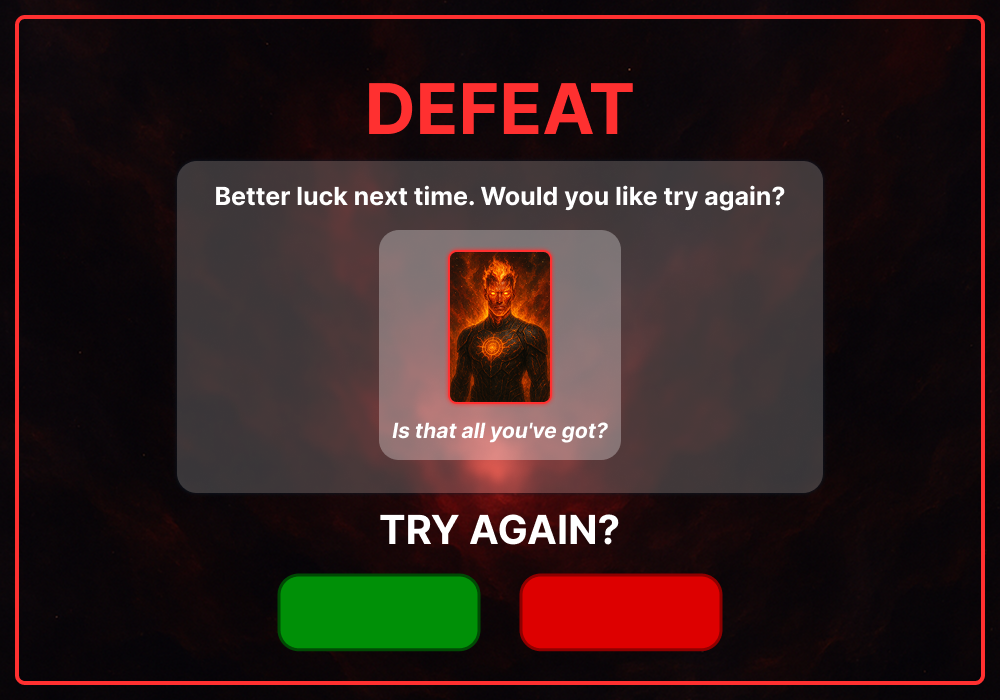
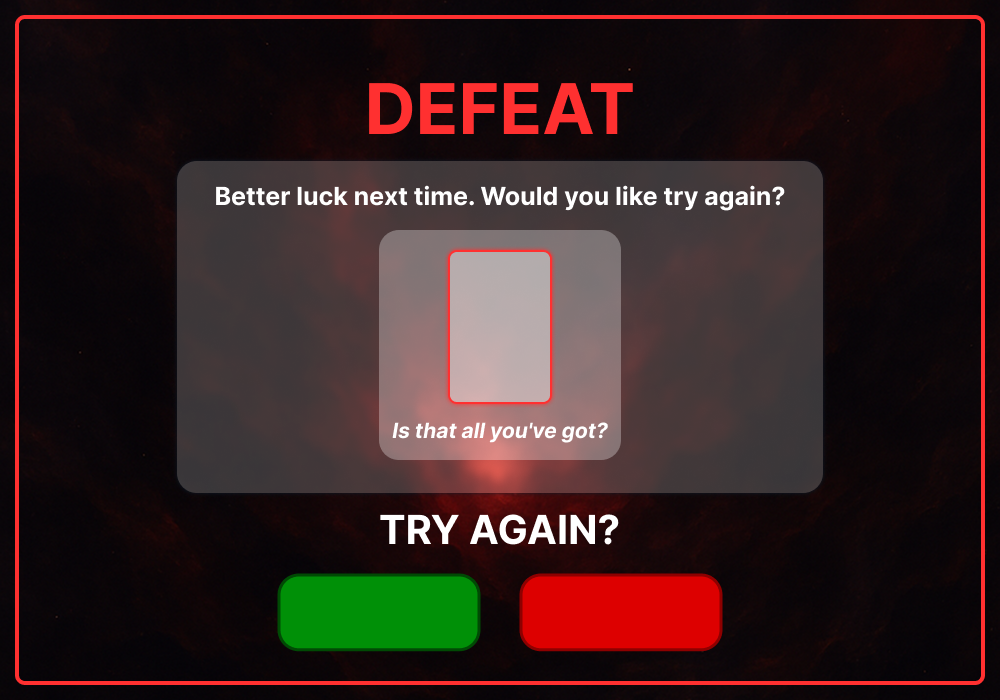
lavoro 27/05/2025

Changed region(s): [[0.434, 0.36, 0.558, 0.6]]

diff --git a/core/src/codes/sorgente/GameMods/GameOver.java b/core/src/codes/sorgente/GameMods/GameOver.java
@@ -398,10 +398,10 @@ public class GameOver implements Screen, InputProcessor, ResourceLoader {
         if (!win) { // sconfitta
             // immagine nemico
             switch ((int) Math.ceil((double) numLevel / 10)) {
-                case 1 -> screen.draw(guardianG1, 430, 170);
-                case 2 -> screen.draw(guardianG2, 775, 185);
-                case 3 -> screen.draw(guardianG3, 800, 455);
-                case 4 -> screen.draw(guardianG4, 300, 430);
+                case 1 -> screen.draw(guardianG1, 450, 298);
+                case 2 -> screen.draw(guardianG2, 450, 298);
+                case 3 -> screen.draw(guardianG3, 450, 298);
+                case 4 -> screen.draw(guardianG4, 450, 298);
             }
         }
         else { // vittoria
@@ -412,7 +412,7 @@ public class GameOver implements Screen, InputProcessor, ResourceLoader {
 
             // stampa immagine premio + testo descrittivo
             screen.draw(listImgReward.get((int) DataUserManager.getProgress("level")-1), 300, 150);
-            font.draw(screen, listTextReward.get((int) DataUserManager.getProgress("level")), 300, 200);
+            font.draw(screen, listTextReward.get((int) DataUserManager.getProgress("level")-1), 300, 200);
         }
     }
 
@@ -449,7 +449,7 @@ public class GameOver implements Screen, InputProcessor, ResourceLoader {
             // livello corrente
             if (!isLevel) game.setScreen(new LobbyManager(game));
             else {
-                saveLevelProgress(); // TODO: rimuoverlo da qua una volta settato il range claim
+                if (win) saveLevelProgress(); // TODO: rimuoverlo da qua una volta settato il range claim
                 game.setScreen(new SpaceJourney(game, selectedSp, (int) Math.ceil((double) numLevel / 10)));
             }
         }
@@ -491,7 +491,6 @@ public class GameOver implements Screen, InputProcessor, ResourceLoader {
     @Override public boolean mouseMoved(int screenX, int screenY) {
         isBtnRHover=isBtnLHover=false;
         // CAMBIO STILE PULSANTI
-        // TODO: cambiare i range x e y
         // YES restart
         if ((screenX >= 272 && screenX <= 472) && (screenY >= 573 && screenY <= 650)) {
             isBtnLHover=true;

diff --git a/core/src/codes/sorgente/GameMods/ClassicGame.java b/core/src/codes/sorgente/GameMods/ClassicGame.java
@@ -65,7 +65,7 @@ public class ClassicGame implements Screen, InputProcessor {
     private float spawnInterval;
 
     // statistiche
-    private int totalLives, lives, aliensHit, spaceshipHit, points, credits;
+    private int totalLives, lives, aliensHit, points, credits;
 
     // valori di incremento punti e crediti
     private int scoreInc, creditsInc;
@@ -125,7 +125,7 @@ public class ClassicGame implements Screen, InputProcessor {
         this.isLevel = isLevel;
 
         numLevel = (int) DataUserManager.getProgress("level");
-
+        System.out.println(numLevel);
         // navicella utente inizializzata
         this.selectedSp = selectedSp;
 
@@ -150,9 +150,15 @@ public class ClassicGame implements Screen, InputProcessor {
         spaceship = new Rectangle(400, 20, 70, 64);
 
         // init parametri in base alla difficoltà di gioco
-        int difficulty;
+        int difficulty=1;
         if (!isLevel) difficulty = (int) DataUserManager.getProgress("diff_classic_game");
-        else difficulty = (int) Math.ceil((double) numLevel / 10);
+        else {
+            switch ((int) Math.ceil((double) numLevel / 10)) {
+                case 1 -> difficulty=1;
+                case 2, 3 -> difficulty=2;
+                case 4 -> difficulty=3;
+            }
+        }
         setupGameParameters(difficulty);
 
         // posizione y dello sfondo dinamico
@@ -255,7 +261,6 @@ public class ClassicGame implements Screen, InputProcessor {
                 creditsInc = 3;
                 break;
         }
-
         spacecraftSpeed += selectedSp.getSpSpeed()*100;
         laserSpeed += selectedSp.getLaserSpeed()*100;
     }

diff --git a/core/src/codes/sorgente/GameMods/SpaceJourney/SpaceJourneyUI.java b/core/src/codes/sorgente/GameMods/SpaceJourney/SpaceJourneyUI.java
@@ -299,7 +299,7 @@ public class SpaceJourneyUI implements ResourceLoader {
         // prezzo livello
         boolean higherPrice = currentCredits>=numLevel* 100L;
         BitmapFont font = higherPrice ? fontBoldGreen25 : fontBoldRed25;
-        font.draw(screen, currentCredits + "/" + formatter.format(numLevel* 100L), 390, 347);
+        font.draw(screen, formatter.format(currentCredits) + "/" + formatter.format(numLevel* 100L), 390, 347);
 
         // stampa pulsanti hover
         int price = 100*numLevel; // prezzo del livello

diff --git a/core/src/codes/sorgente/Lobby/InputManager.java b/core/src/codes/sorgente/Lobby/InputManager.java
@@ -487,9 +487,9 @@ public class InputManager implements InputProcessor {
                     }
                 }
             }
-
+            System.out.println(screenX + " " + screenY);
             // chiusura pagina navicelle
-            if (page==4 && (screenX >= 906 && screenX <= 947) && (screenY >= 83 && screenY <= 122)) {
+            if (page==4 && (screenX >= 907 && screenX <= 947) && (screenY >= 68 && screenY <= 106)) {
                 open4 = false;
                 page = previousPage;
             }

diff --git a/core/src/codes/sorgente/GameMods/SpaceJourney/Level.java b/core/src/codes/sorgente/GameMods/SpaceJourney/Level.java
@@ -49,6 +49,7 @@ public class Level {
         System.out.println(cost);
         // sblocco livello
         if (credits >= cost) {
+            System.out.println("dio porco");
             DataUserManager.setProgress("credits", credits - cost); // aggiornamento crediti utente
             DataUserManager.setProgress("level_bought", true); // cambio stato "livello acquistato"
         }

diff --git a/core/src/codes/sorgente/GameMods/SpaceJourney/SpaceJourney.java b/core/src/codes/sorgente/GameMods/SpaceJourney/SpaceJourney.java
@@ -163,6 +163,7 @@ public class SpaceJourney implements Screen, InputProcessor {
 
             // SI sblocco livello
             if (buyLevel && (currentCredits-price>=0) && (screenX >= 281 && screenX <= 481) && (screenY >= 417 && screenY <= 497)) {
+                System.out.println(numLevel);
                 // sblocco livello
                 new Level(numLevel).unlock();
 

diff --git a/core/src/codes/sorgente/Lobby/UIManager.java b/core/src/codes/sorgente/Lobby/UIManager.java
@@ -350,7 +350,6 @@ public class UIManager implements ResourceLoader {
 
         RTGs[0] = RTG0;
         RTGs[1] = RTG1;
-        RTGs[2] = RTG2;
         RTGs[3] = RTG3;
     }
 
